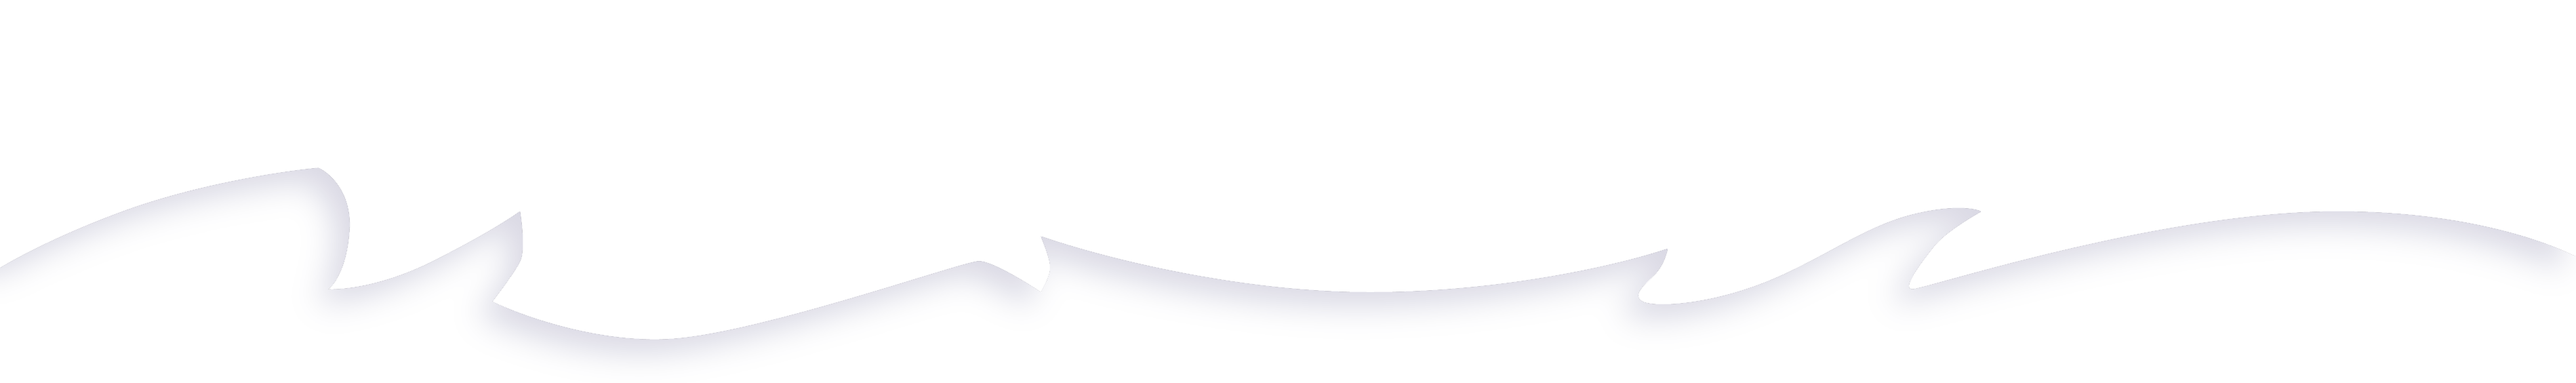
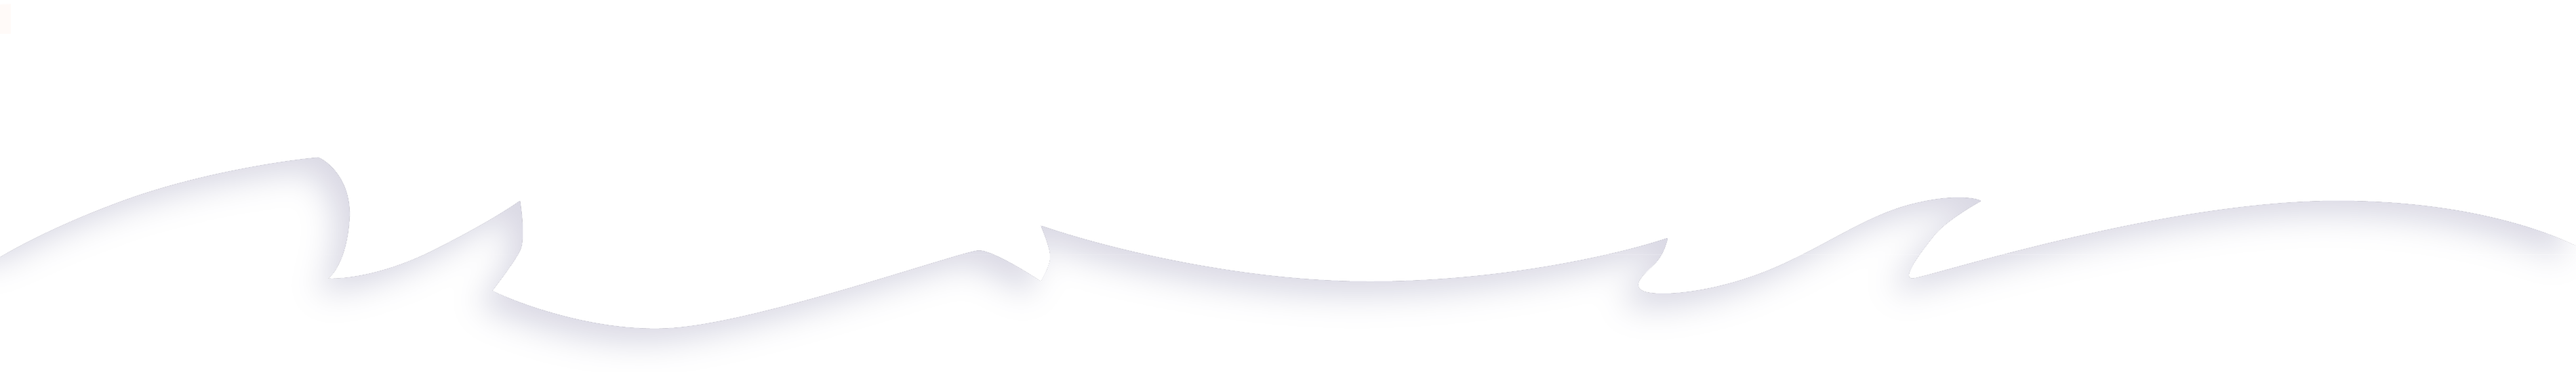
main gotov

diff --git a/Project/style/styleMain.css b/Project/style/styleMain.css
@@ -105,15 +105,19 @@ img {
     color: #FFFFFF;
     box-shadow: 2px 4px 7px -1px rgb(0 0 0 / 25%);
     border-radius: 100px;
-    background: #ffbc00;
     font-family: 'Roboto Slab';
     font-style: normal;
+    background: url(/images/main/btn1.jpg) no-repeat center center;
     text-shadow: 0px 4px 4px rgb(0 0 0 / 38%), 0px 1px 5px rgb(234 84 0 / 63%);
     text-align: center;
     text-decoration: none;
     cursor: pointer;
     z-index: 4;
     padding-top: 0.3vw;
+}
+.start:hover {
+    background: url(/images/main/btn1_hover.jpg) no-repeat center center;
+    box-shadow: 0px 0px 30px 0px rgba(255, 251, 188, 0.571);
 }
 
 .steps4 {
@@ -189,7 +193,7 @@ img {
 .fonWaveInversion {
     position: absolute;
     left: 0;
-    top: -5%;
+    top: -10%;
     z-index: -1;
     width: 100%;
     height: auto;
@@ -295,20 +299,10 @@ img {
     left: 0;
 
     z-index: 0;
-    margin-top: 133%;
+    margin-top: 115%;
     margin-left: 21%;
     display: flex;
     justify-content: space-around;
-}
-
-.fonTraining_3 {
-    position: absolute;
-    left: 0;
-    top: 0;
-    z-index: -3;
-    width: 100%;
-    height: auto;
-    margin-top: 155%;
 }
 
 .training_3 {
@@ -317,8 +311,8 @@ img {
     position: absolute;
     left: 0;
     z-index: 0;
-    margin-top: 163%;
-    margin-left: 21%;
+    margin-top: 140%;
+    margin-left: 18%;
     display: flex;
     justify-content: space-around;
 }
@@ -327,20 +321,20 @@ img {
     position: absolute;
     left: 0;
     top: 0;
-    z-index: 0;
+    z-index: -1;
     width: 100%;
     height: auto;
-    margin-top: 185%;
+    margin-top: 150%;
 }
 
 .fonDown {
     position: absolute;
     left: 0;
     top: 0;
-    z-index: -1;
+    z-index: -2;
     width: 100%;
     height: auto;
-    margin-top: 191%;
+    margin-top: 165%;
 }
 
 .headingFinal {
@@ -350,7 +344,7 @@ img {
     z-index: -1;
     width: 100%;
     height: auto;
-    margin-top: 202%;
+    margin-top: 177%;
     text-align: center;
     color: #FFFFFF;
     font-family: 'Roboto Condensed', sans-serif;
@@ -367,8 +361,8 @@ img {
     z-index: -1;
     width: 14%;
     height: auto;
-    margin-top: 209%;
-    margin-left: 46%;
+    margin-top: 184%;
+    margin-left: 45%;
 }
 
 .radio800 {

diff --git a/Project/index.php b/Project/index.php
@@ -106,7 +106,6 @@
         </div>
 
 
-        <img src = "images/main/фон 1-06.png" class = "fonTraining_3">
         <div class = "training_3">
             <img src = "images/main/глв челики 3.png" class = "mainPeople">
             <div class = "descriptionTraining_1">
@@ -120,7 +119,7 @@
             </div>
         </div>
 
-        <img src = "images/main/фон-07.png" class = "fonWaveDown">
+        <img src = "images/main/fon_down.png" class = "fonWaveDown">
         <img src = "images/main/fonDown.png" class = "fonDown"></div>
         <div class = ></div>
 
